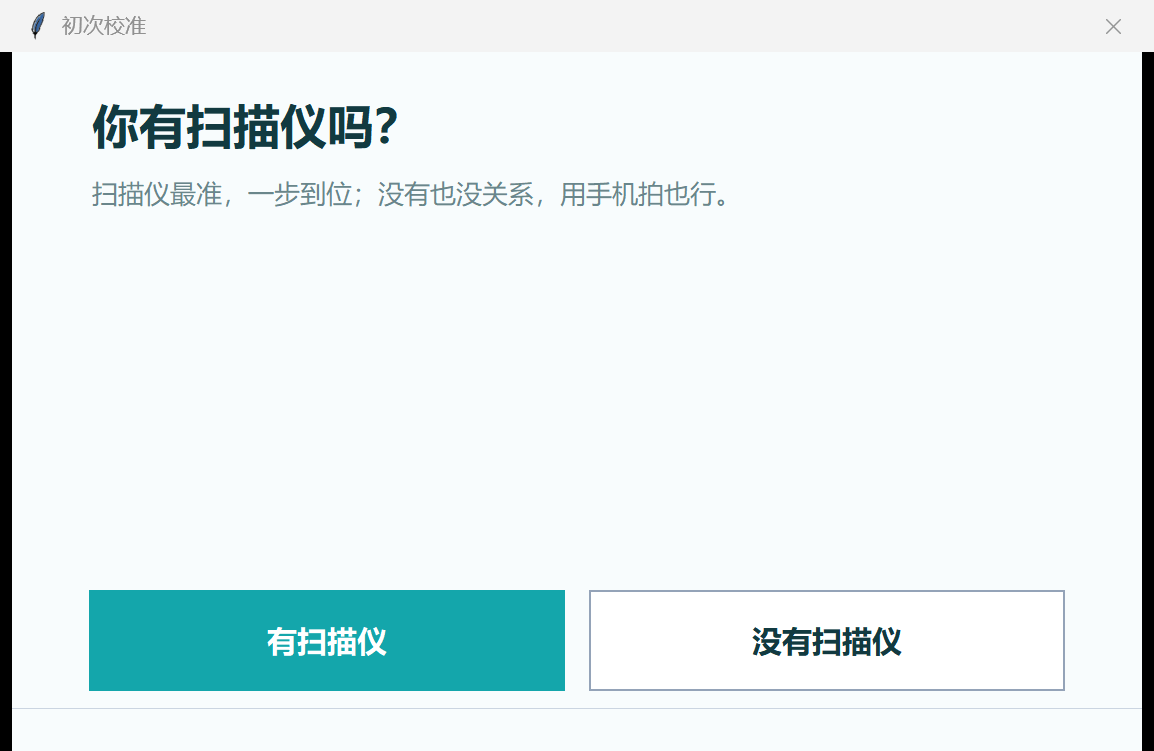
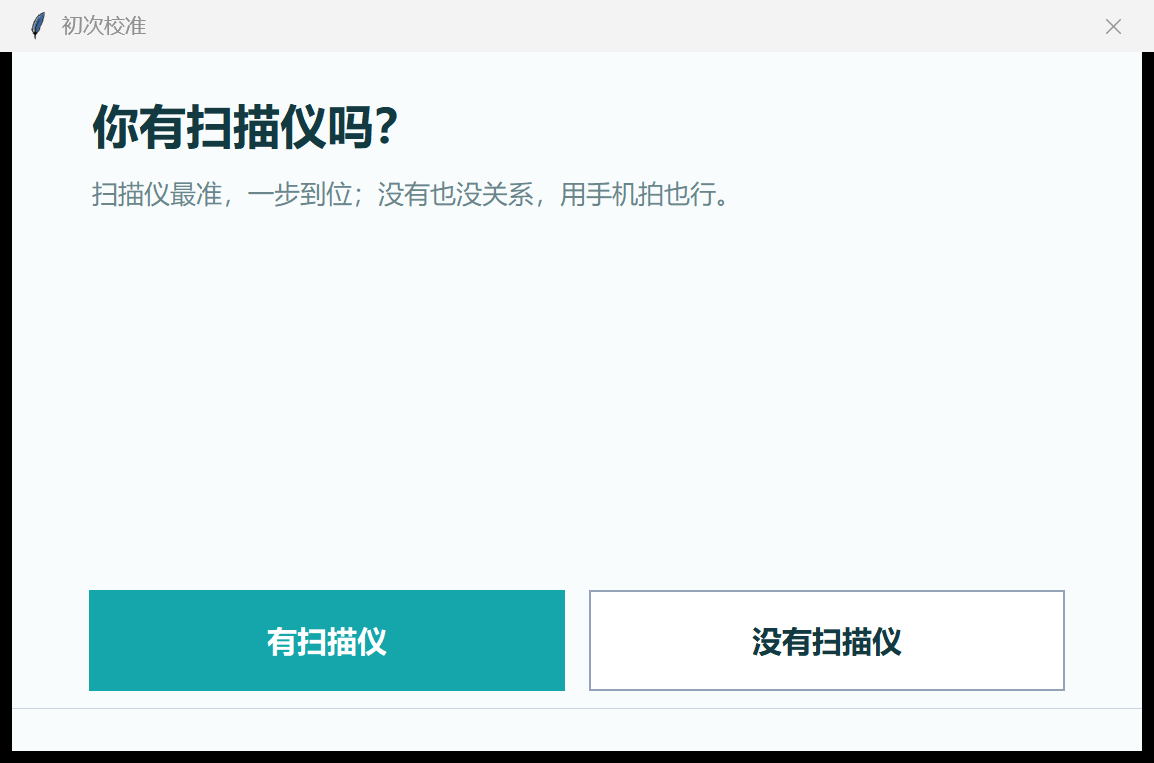
docs: 重拍 README 界面图（按钮已全部直角）；顺手去掉写死的打印机型号
- 重拍 docs/ 下 5 张界面图（v2-home / v2-calibrate / v2-corners / wizard /
  wizard-done）：合并 PR #2 后按钮统一为 AppButton、一律直角，旧图还是圆角，
  v2-home 里版本号也还停在 v1.4.1
- 脱敏：向导里「施乐 C8055 / Xerox C8055」这类真实型号全部去掉，默认打印机名
  改走文案表（我的打印机 / My printer）；发版清单第 2 条要求仓库里不出现真实型号
- PrinterProfile.name 默认值 "default" -> ""（id 仍是 "default"，存储不受影响），
  界面上不再把代码词 "default" 当打印机名显示
- 用例随之调整：test_c8055_case -> test_face_down_short_case；
  默认名断言改成跟文案表比，不再写死字符串

截图里的状态栏用相对路径 "ulpp\v2_flow.json"，不留本机路径。

diff --git a/src/ulpp/wizard.py b/src/ulpp/wizard.py
@@ -46,6 +46,7 @@ TEXTS: Dict[str, Dict[str, str]] = {
         "s1.body": "校准结果按“打印机 + 纸盘”存一份。以后选这台机器，放纸方向会自动带出来。",
         "s1.tip": "不用真连打印机；型号随便填，能区分就行。",
         "s1.printer": "打印机型号",
+        "s1.printer_default": "我的打印机",
         "s1.tray": "纸盘",
         # 2
         "s2.title": "在普通纸上写一个大大的 A",
@@ -89,7 +90,7 @@ TEXTS: Dict[str, Dict[str, str]] = {
         "s8.title": "以后这台机器就这样放",
         "s8.tip": "换胶纸品牌、换纸盘，都要重新对一次；同一台机器不用再对。",
         "s8.again": "重新校准",
-        "s8.note_down": "胶面朝下的机器（比如施乐 C8055 打标签），按上面这句话放就对了。",
+        "s8.note_down": "胶面朝下的机器（很多激光标签机都是），按上面这句话放就对了。",
         "s8.note_up": "胶面朝上的机器，按上面这句话放就对了。",
         # 9
         "s9.title": "最后：左右 / 上下微调",
@@ -120,6 +121,7 @@ TEXTS: Dict[str, Dict[str, str]] = {
         "s1.body": "The result is saved per printer + tray. Next time you pick this printer, the feed direction comes back automatically.",
         "s1.tip": "No need for a real printer; any name that tells them apart works.",
         "s1.printer": "Printer", "s1.tray": "Tray",
+        "s1.printer_default": "My printer",
         "s2.title": "Write a big A on plain paper",
         "s2.body": "Take a plain A4 sheet and write a big A on the front with a pen.\n\nPress Next when done.",
         "s2.tip": "Plain paper on purpose — no label stock wasted.",
@@ -155,7 +157,7 @@ TEXTS: Dict[str, Dict[str, str]] = {
         "s8.title": "Load it this way from now on",
         "s8.tip": "New label brand or new tray needs a new calibration; the same printer does not.",
         "s8.again": "Calibrate again",
-        "s8.note_down": "For face-down printers (Xerox C8055 with labels), this is the way.",
+        "s8.note_down": "For face-down printers (common on laser label printers), this is the way.",
         "s8.note_up": "For face-up printers, this is the way.",
         "s9.title": "Last step: left/right, up/down",
         "s9.body": "If the print sits a bit off, nudge it here instead of changing the sheet.",
@@ -465,7 +467,7 @@ class CalibrationWizard(tk.Toplevel):
         form.pack(fill="x", pady=(S(16), 0), anchor="w")
         tk.Label(form, text=self.T("s1.printer"), font=self.f(10), fg=T["muted"],
                  bg=T["bg"]).pack(anchor="w")
-        self.printer_var = tk.StringVar(value=self.profile.name or "Xerox C8055")
+        self.printer_var = tk.StringVar(value=self.profile.name or self.T("s1.printer_default"))
         tk.Entry(form, textvariable=self.printer_var, font=self.f(12), width=32,
                  relief="flat", highlightthickness=1,
                  highlightbackground=T["border"]).pack(anchor="w", pady=(S(4), S(12)),

diff --git a/src/ulpp/sheets.py b/src/ulpp/sheets.py
@@ -69,7 +69,7 @@ class PrinterProfile:
     """一台打印机的位置校准配置；offset 是“补偿量”，正数表示把内容往右/往下移。"""
 
     id: str = "default"
-    name: str = "default"
+    name: str = ""
     offset_x_mm: float = 0.0
     offset_y_mm: float = 0.0
     feed: str = DEFAULT_FEED
@@ -94,7 +94,7 @@ class PrinterProfile:
             feed = DEFAULT_FEED
         return cls(
             id=str(data.get("id") or _new_id()),
-            name=str(data.get("name") or "default"),
+            name=str(data.get("name") or ""),
             offset_x_mm=float(data.get("offset_x_mm") or 0.0),
             offset_y_mm=float(data.get("offset_y_mm") or 0.0),
             feed=feed,

diff --git a/tests/test_wizard.py b/tests/test_wizard.py
@@ -21,8 +21,8 @@ class TestFeedInference(unittest.TestCase):
             self.assertEqual(got, want)
             self.assertIn(got, FEED_ORIENTATIONS)
 
-    def test_c8055_case(self):
-        """施乐 C8055 打标签：胶面朝下 + A4 横放 = face_down_short。"""
+    def test_face_down_short_case(self):
+        """胶面朝下 + A4 横放 = face_down_short（最常见的标签机放法）。"""
         self.assertEqual(feed_from_answers("down", "short", DEFAULT_FEED),
                          "face_down_short")
 

diff --git a/tests/test_wizard_ui.py b/tests/test_wizard_ui.py
@@ -143,7 +143,7 @@ class BuildStepTests(WizardCase):
 
     def test_step1_defaults_when_profile_empty(self):
         wiz = self._wizard(PrinterProfile(name="", tray=""))
-        self.assertEqual(wiz.printer_var.get(), "Xerox C8055")
+        self.assertEqual(wiz.printer_var.get(), wiz.T("s1.printer_default"))
         self.assertTrue(wiz.tray_var.get())
 
     def test_step4_animation_ticks(self):
